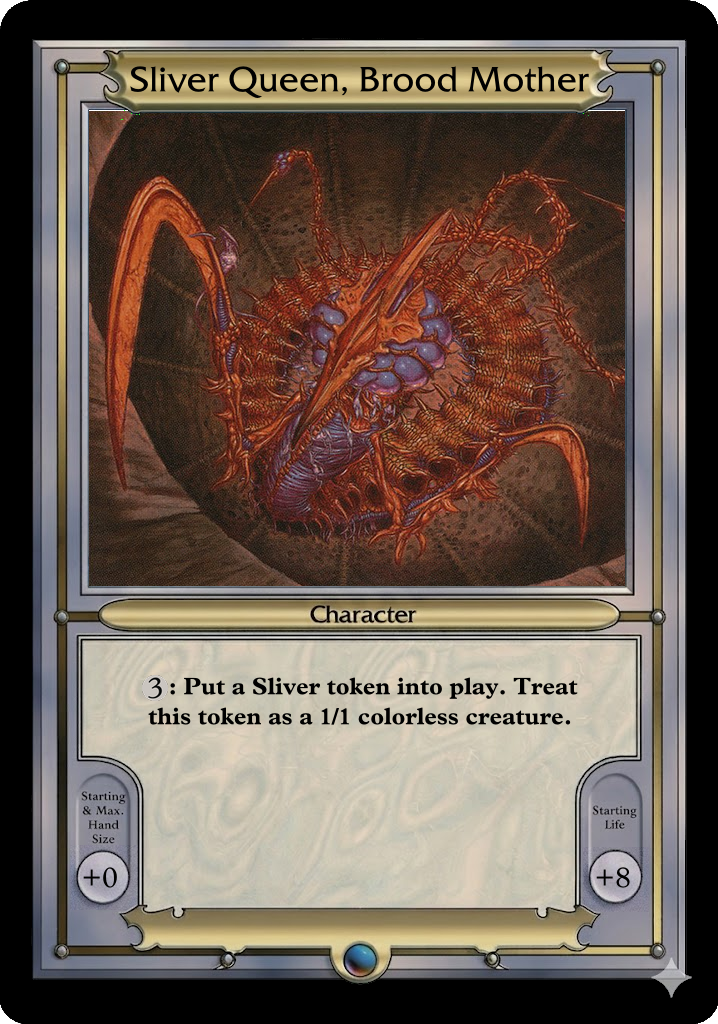
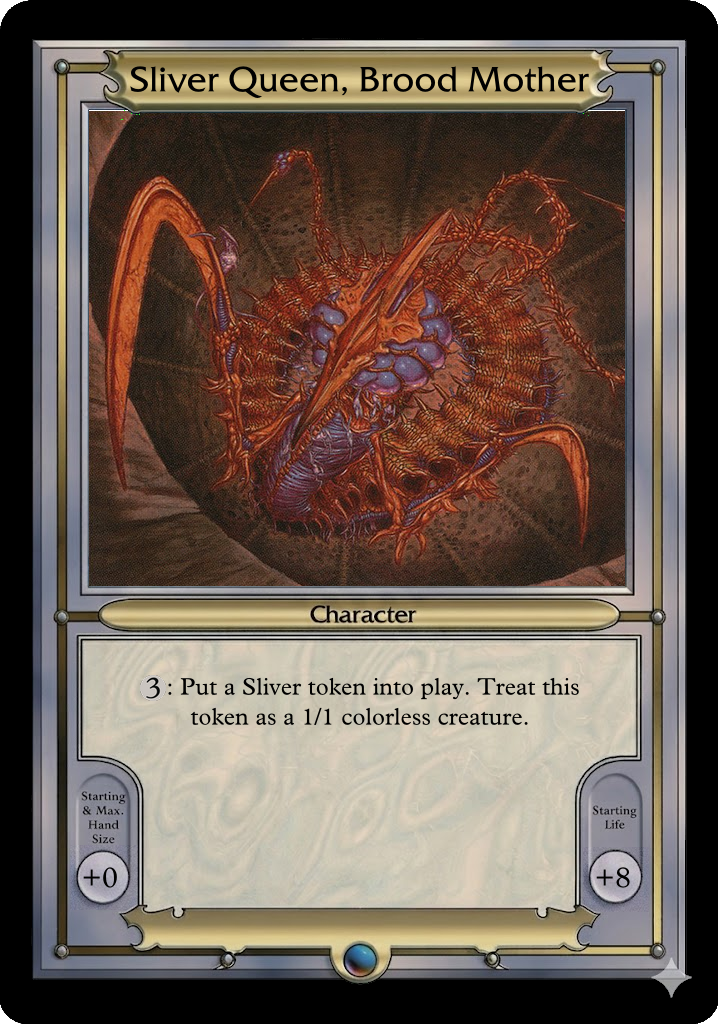
Switch ability text to regular weight (MPlantin), fix Sliver Queen wrap
- Ability text now uses MPlantin regular instead of bold.
  Original Vanguard cards use regular weight for rules text; bold was
  visually too heavy.
- Sliver Queen now correctly wraps after "play." rather than "Treat",
  matching the original card layout.
- Remove body_bold_font from render_card signature (now unused); body_font
  used for all ability text and stats.
- Retain body_bold_data() in fonts.rs for future keyword-bold use.
- Regenerate all four example images.

Changed region(s): [[0.1838, 0.6562, 0.7967, 0.7188]]

diff --git a/src/render.rs b/src/render.rs
@@ -22,8 +22,6 @@ pub fn run(paths: &[PathBuf], output: Option<&Path>, template: Option<&Path>) ->
         FontRef::try_from_slice(fonts::name_data()).context("loading embedded name font")?;
     let body_font =
         FontRef::try_from_slice(fonts::body_data()).context("loading embedded body font")?;
-    let body_bold_font = FontRef::try_from_slice(fonts::body_bold_data())
-        .context("loading embedded body-bold font")?;
 
     let multi = yaml_files.len() > 1;
 
@@ -66,7 +64,6 @@ pub fn run(paths: &[PathBuf], output: Option<&Path>, template: Option<&Path>) ->
             artwork.as_ref(),
             Some(&template_img),
             &name_font,
-            &body_bold_font,
             &body_font,
         ) {
             Ok(img) => {
@@ -140,8 +137,7 @@ pub fn render_card(
     artwork: Option<&RgbaImage>,
     template: Option<&RgbaImage>,
     name_font: &FontRef,
-    body_bold_font: &FontRef,
-    stats_font: &FontRef,
+    body_font: &FontRef,
 ) -> Result<RgbaImage> {
     let layout = &DEFAULT;
 
@@ -214,8 +210,8 @@ pub fn render_card(
     let fit = text::fit_ability_text(
         &card.ability,
         card.flavor.as_deref(),
-        body_bold_font,
-        stats_font,
+        body_font,
+        body_font,
         text_max_w,
         text_box_h,
         layout.ability_size_max,
@@ -228,8 +224,8 @@ pub fn render_card(
         &mut canvas,
         &fit,
         layout.text_box,
-        body_bold_font,
-        stats_font,
+        body_font,
+        body_font,
         layout.para_gap,
         layout.rules_centering_height,
         [0, 0, 0],
@@ -243,7 +239,7 @@ pub fn render_card(
         &card.hand,
         hx,
         hy,
-        stats_font,
+        body_font,
         stats_scale,
         [0, 0, 0],
     );
@@ -254,7 +250,7 @@ pub fn render_card(
         &card.life,
         lx,
         ly,
-        stats_font,
+        body_font,
         stats_scale,
         [0, 0, 0],
     );

diff --git a/tests/render_tests.rs b/tests/render_tests.rs
@@ -79,7 +79,6 @@ fn render_title(yaml_path: &str) -> RgbaImage {
 
 fn render_rules(yaml_path: &str) -> RgbaImage {
     let card = load_card(yaml_path);
-    let body_bold_font = FontRef::try_from_slice(fonts::body_bold_data()).expect("body-bold font");
     let body_font = FontRef::try_from_slice(fonts::body_data()).expect("body font");
     let layout = &DEFAULT;
 
@@ -90,7 +89,7 @@ fn render_rules(yaml_path: &str) -> RgbaImage {
     let fit = text::fit_ability_text(
         &card.ability,
         card.flavor.as_deref(),
-        &body_bold_font,
+        &body_font,
         &body_font,
         text_max_w,
         text_box_h,
@@ -103,7 +102,7 @@ fn render_rules(yaml_path: &str) -> RgbaImage {
         &mut canvas,
         &fit,
         layout.text_box,
-        &body_bold_font,
+        &body_font,
         &body_font,
         layout.para_gap,
         layout.rules_centering_height,
@@ -759,7 +758,6 @@ fn test_volrath_right_bubble() {
 #[test]
 fn test_full_card_renders() {
     let name_font = FontRef::try_from_slice(fonts::name_data()).expect("name font");
-    let body_bold_font = FontRef::try_from_slice(fonts::body_bold_data()).expect("body-bold font");
     let body_font = FontRef::try_from_slice(fonts::body_data()).expect("body font");
     for yaml in &[
         "tests/gerrard.yaml",
@@ -768,7 +766,6 @@ fn test_full_card_renders() {
         "tests/volrath.yaml",
     ] {
         let card = CardDef::load(Path::new(yaml)).expect("load yaml");
-        render_card(&card, None, None, &name_font, &body_bold_font, &body_font)
-            .expect("render_card");
+        render_card(&card, None, None, &name_font, &body_font).expect("render_card");
     }
 }

diff --git a/src/fonts.rs b/src/fonts.rs
@@ -11,6 +11,8 @@ pub fn body_data() -> &'static [u8] {
 }
 
 /// Bold body text font (MPlantin Bold).
+/// Retained for future use (e.g. ability keywords rendered in bold).
+#[allow(dead_code)]
 pub fn body_bold_data() -> &'static [u8] {
     bundle::font("Mplantin-Bold.ttf")
 }
